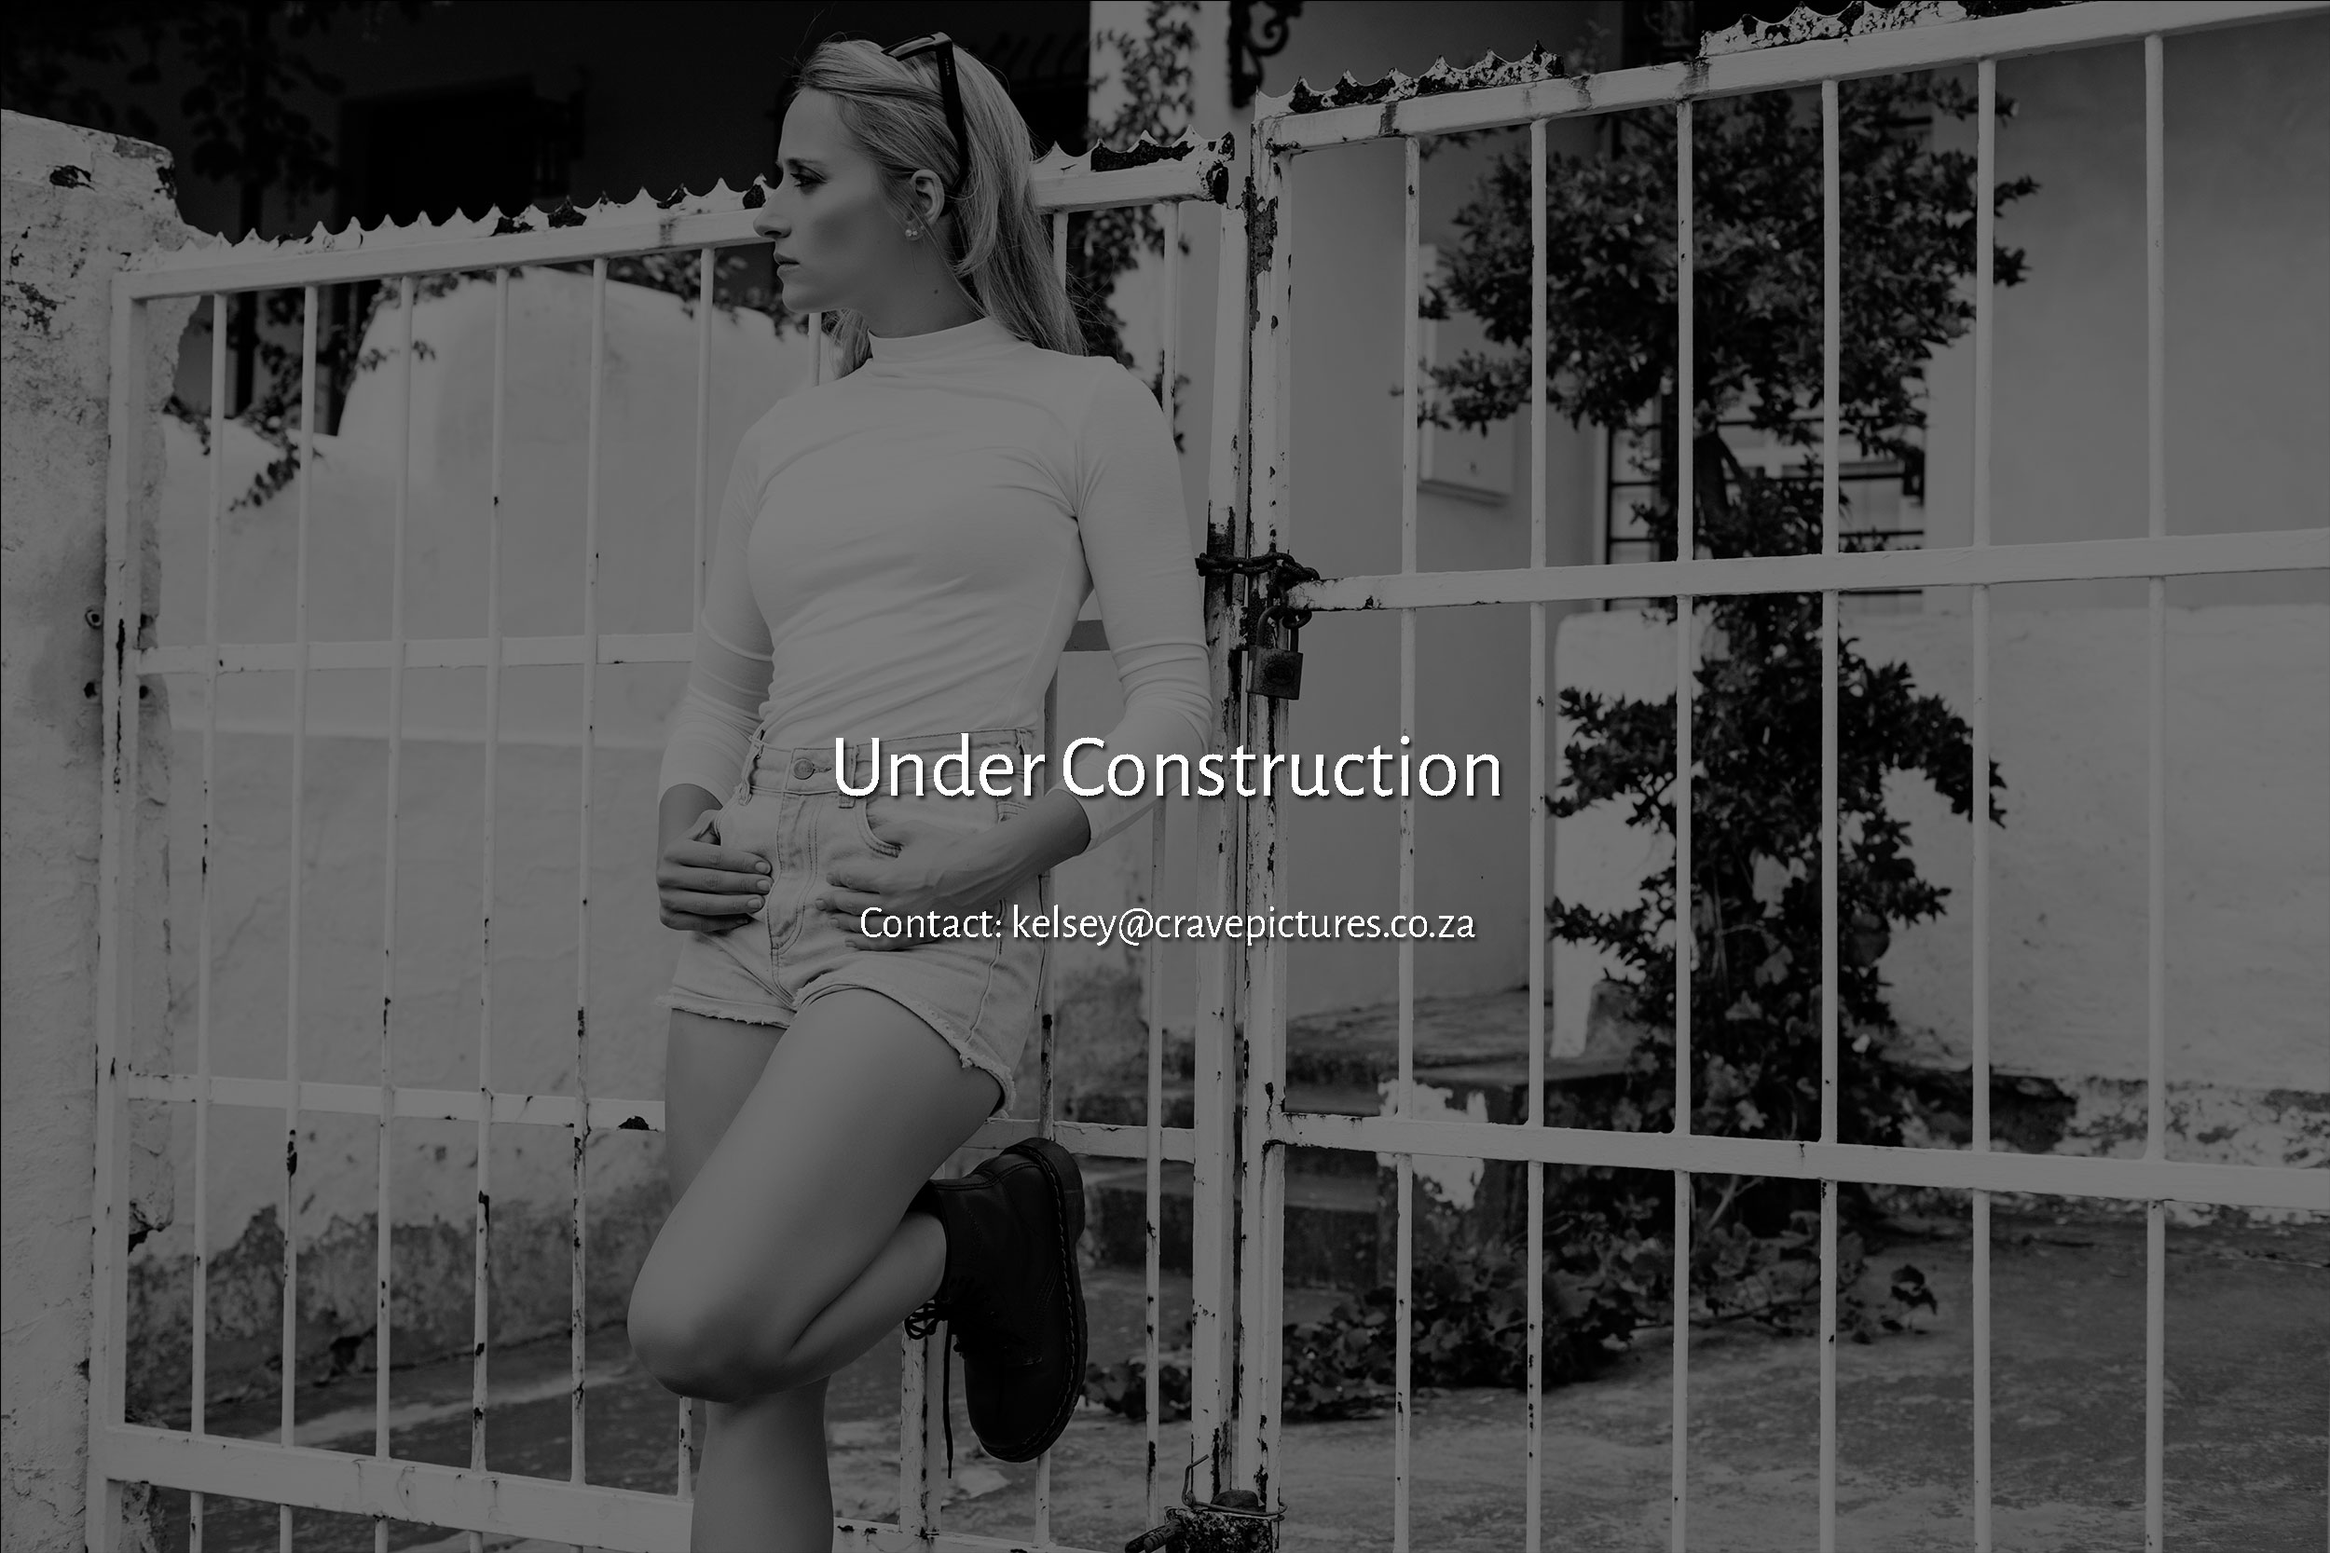
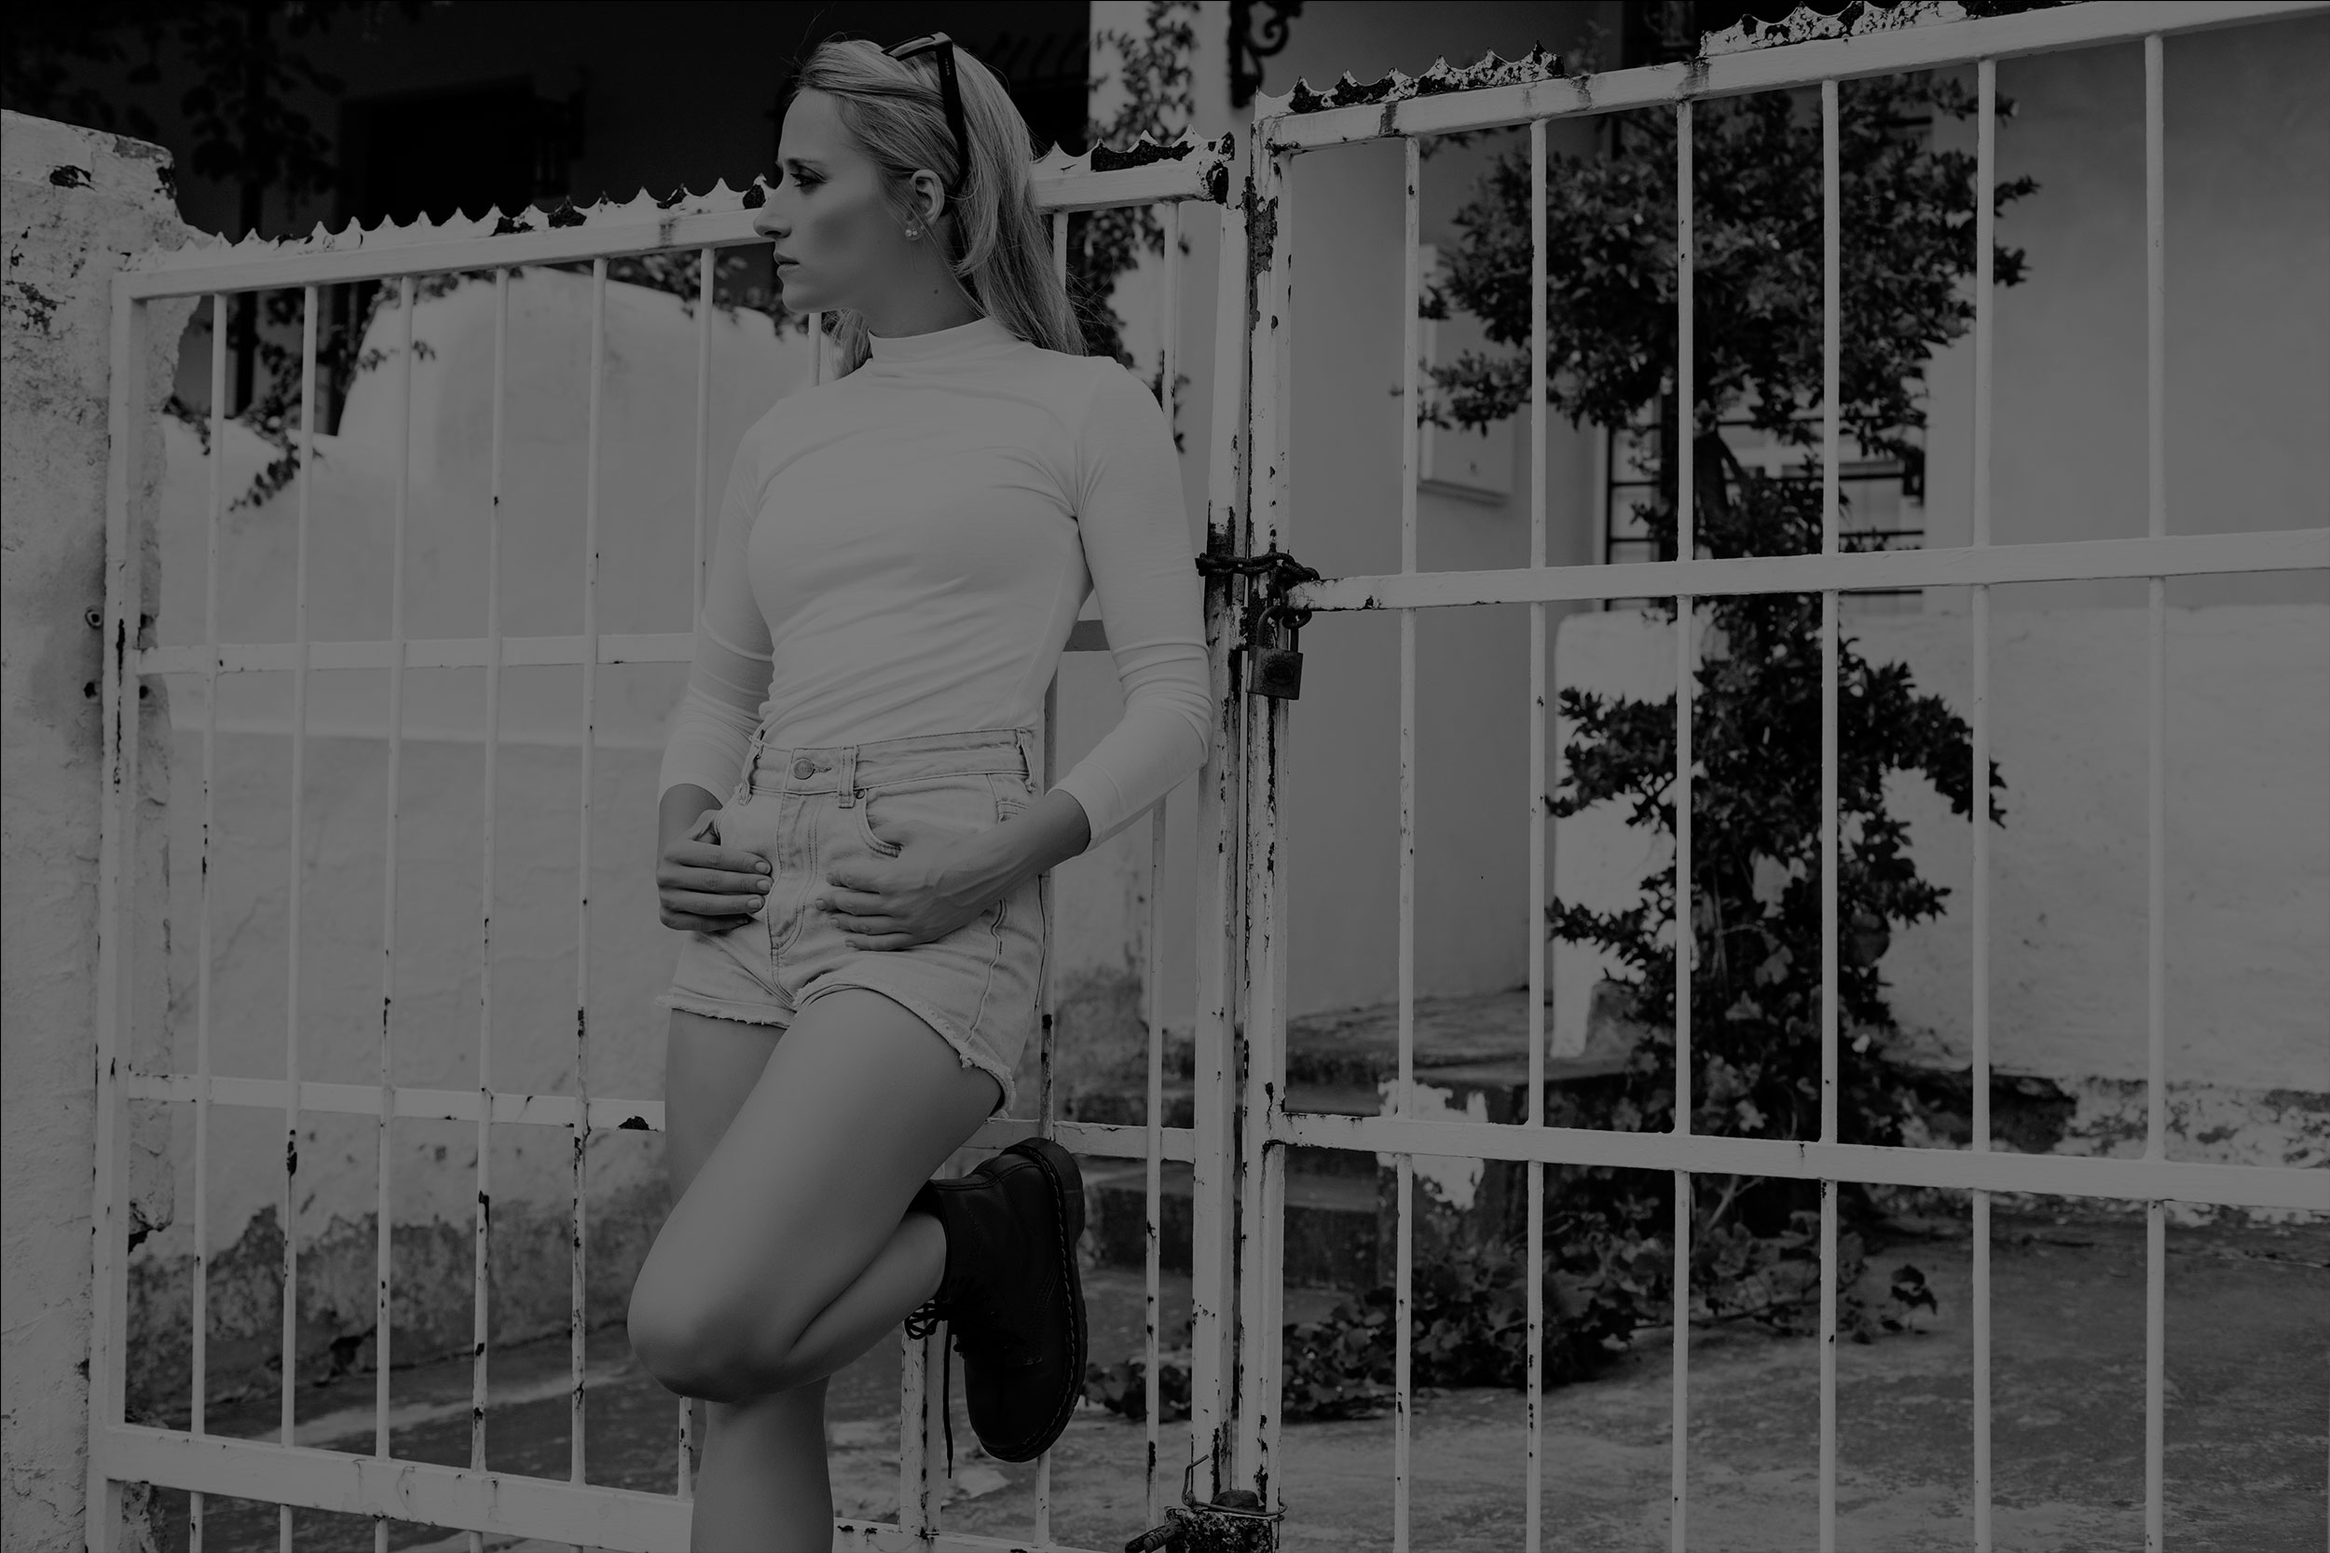
styling
added styling

Changed region(s): [[0.3432, 0.4679, 0.6552, 0.5303], [0.3744, 0.5927, 0.624, 0.6239]]

diff --git a/index.html b/index.html
@@ -1,7 +1,15 @@
 <html>
-<head>
-<title>Kelsey Egan - Under Construction</title>
-</head>
-<body style="background-image: url('under-construction.jpg');">
-</body>
+	<head>
+		<title>Kelsey Egan - Under Construction</title>
+		<link rel="shortcut icon" type="image/png" href="favicon.png"/>
+		<link rel="shortcut icon" type="image/png" href="http://kelseyegan.com/favicon.png"/>
+		<link href="https://fonts.googleapis.com/css?family=Alegreya+Sans" rel="stylesheet">
+	</head>
+	<body style="padding:0; margin:0; background-image: url('under-construction.jpg'); background-repeat: no-repeat; width:100%; background-size:cover;">
+		<div style="margin-top:250px; margin-bottom:100px; text-align:center; color:white; font-family: 'Alegreya Sans', sans-serif; text-shadow: 2px 2px 2px rgba(50, 50, 50, 1);
+">
+			<h1 style="font-size:3rem;">Under Construction</h1>
+			<h3 style="font-size:1.5rem;">Contact: kelsey@cravepictures.co.za</h3>
+		</div>
+	</body>
 </html>
